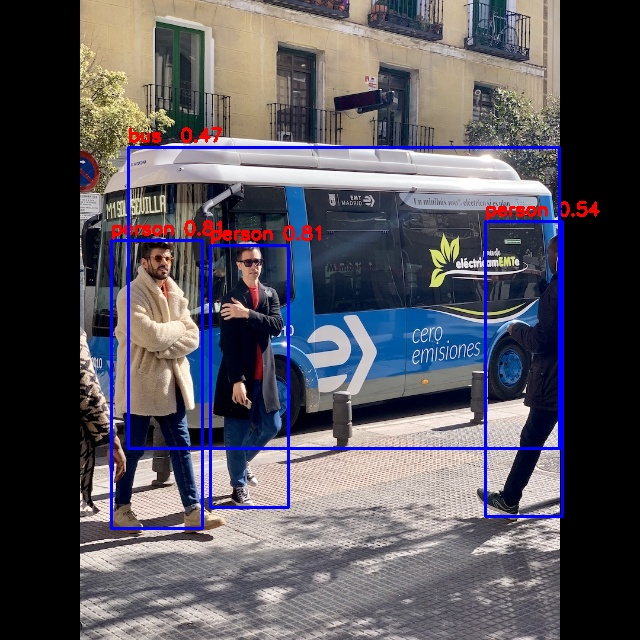
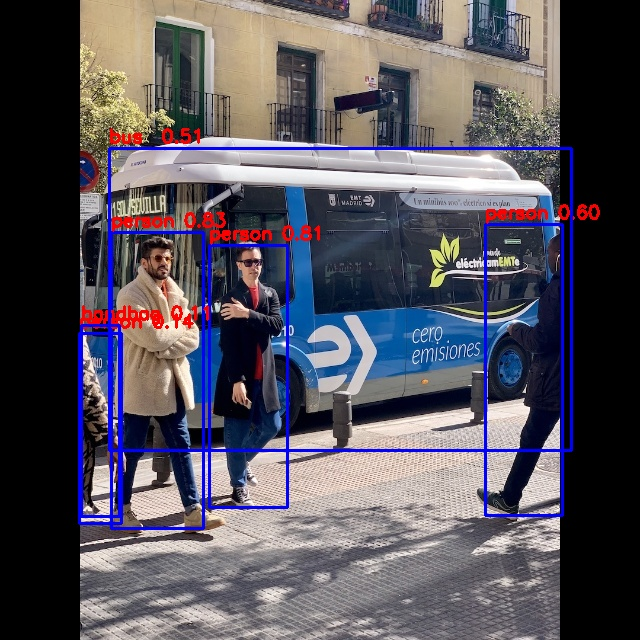
升级了版本

Changed region(s): [[0.0938, 0.1875, 0.9375, 0.8438], [0.75, 0.7812, 0.875, 0.8125]]

diff --git a/scripts/main.py b/scripts/main.py
@@ -2,7 +2,7 @@ import numpy as np
 import cv2
 from rknnlite.api import RKNNLite
 
-RKNN_MODEL = '../models/yolov5s.rknn'
+RKNN_MODEL = '../models/yolov5n.rknn'
 
 IMG_PATH = '../dataset/bus.jpg'
 # DATASET = './dataset.txt'
